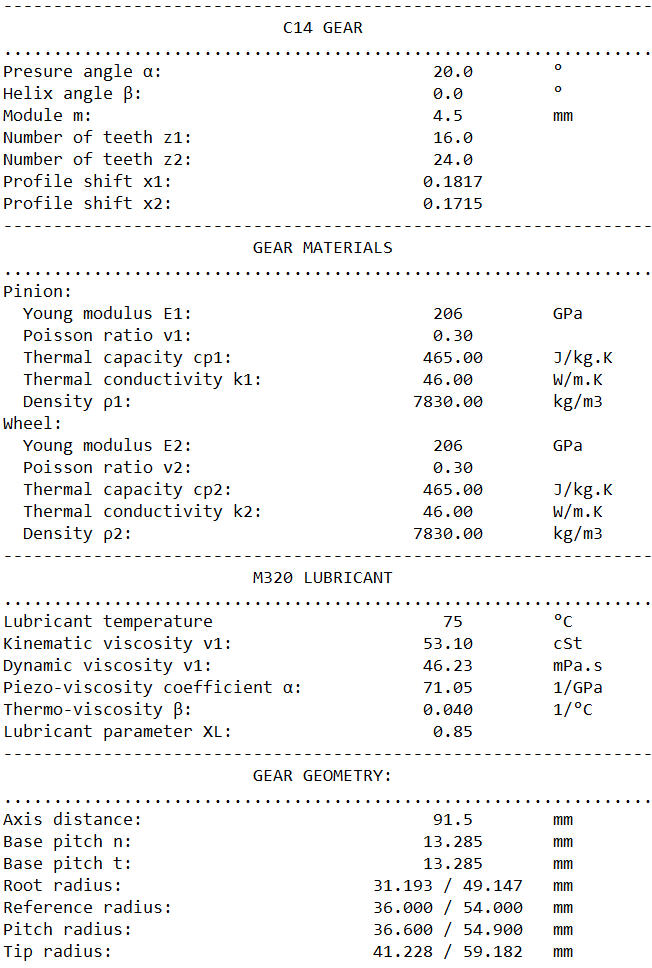
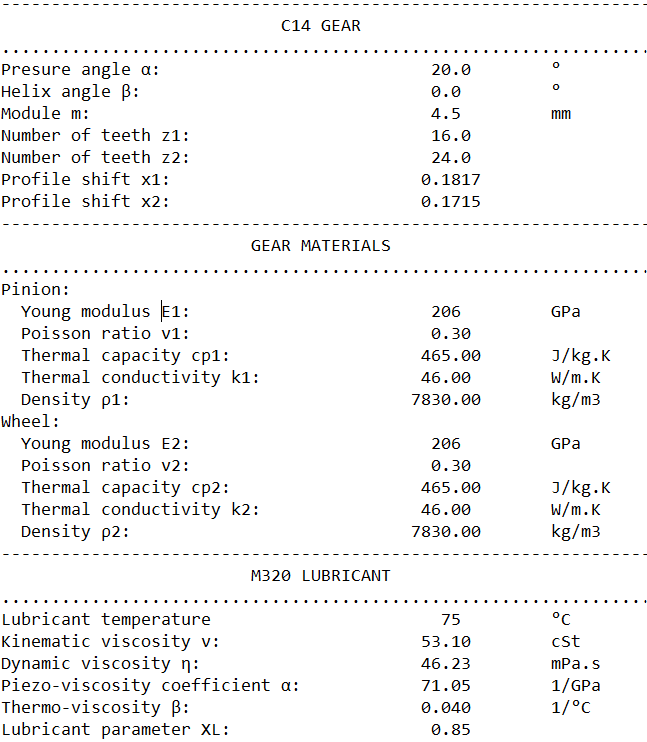
Update Print

diff --git a/CLASSES/OUTPUT_PRINT.py b/CLASSES/OUTPUT_PRINT.py
@@ -86,9 +86,9 @@ class PRINTING:
                                              "%.0f" % (GLUB.TL),
                                              '\u00b0C'), file=f)
         print('{:<35s}{:^20s}{:<10s}'.format(
-            'Kinematic viscosity \u03BD1:', "%.2f" % GLUB.niu, 'cSt'), file=f)
+            'Kinematic viscosity \u03BD:', "%.2f" % GLUB.niu, 'cSt'), file=f)
         print('{:<35s}{:^20s}{:<10s}'.format(
-            'Dynamic viscosity \u03BD1:', "%.2f" % GLUB.miu, 'mPa.s'), file=f)
+            'Dynamic viscosity \u03B7:', "%.2f" % GLUB.miu, 'mPa.s'), file=f)
         print('{:<35s}{:^20s}{:<10s}'.format(
             'Piezo-viscosity coefficient \u03B1:', "%.2f" % (GLUB.piezo/1e-9),
             '1/GPa'), file=f)
@@ -160,6 +160,10 @@ class PRINTING:
         print('{:<35s}{:^20s}{:<10s}'.format('Angular speed \u03C9:',
                                              "%.1f" % GFS.omega1 + ' / ' +
                                              "%.1f" % GFS.omega2, 'rad/s'), 
+              file=f)
+        print('{:<35s}{:^20s}{:<10s}'.format('Maximum specific sliding gs:', "%.1f" %
+                                             GFS.gs1.max() + ' / ' +
+                                             "%.1f" % GFS.gs2.max(), ''), 
               file=f)
         print('{:<35s}{:^20s}{:<10s}'.format(
             'Tangential load F_t:', "%.1f" % GFS.ft, 'N'), file=f)
@@ -296,7 +300,7 @@ class PRINTING:
                                              ' %.2f' % GLCC.ZE, ''), file=f)
         print('{:<35s}{:^20s}{:<10s}'.format('  Zone factor ZH: ', 
                                              ' %.2f' % GLCC.ZH, ''), file=f)
-        print('{:<35s}{:^20s}{:<10s}'.format('  Contact ratio factor Z\u03b3: '
+        print('{:<35s}{:^20s}{:<10s}'.format('  Contact ratio factor Z\u03b5: '
                                              ,' %.2f' % GLCC.ZEPS, ''), file=f)
         print('{:<35s}{:^20s}{:<10s}'.format('  Helix angle factor Z\u03b2: '
                                              ,' %.2f' % GLCC.ZBETA, ''), 
